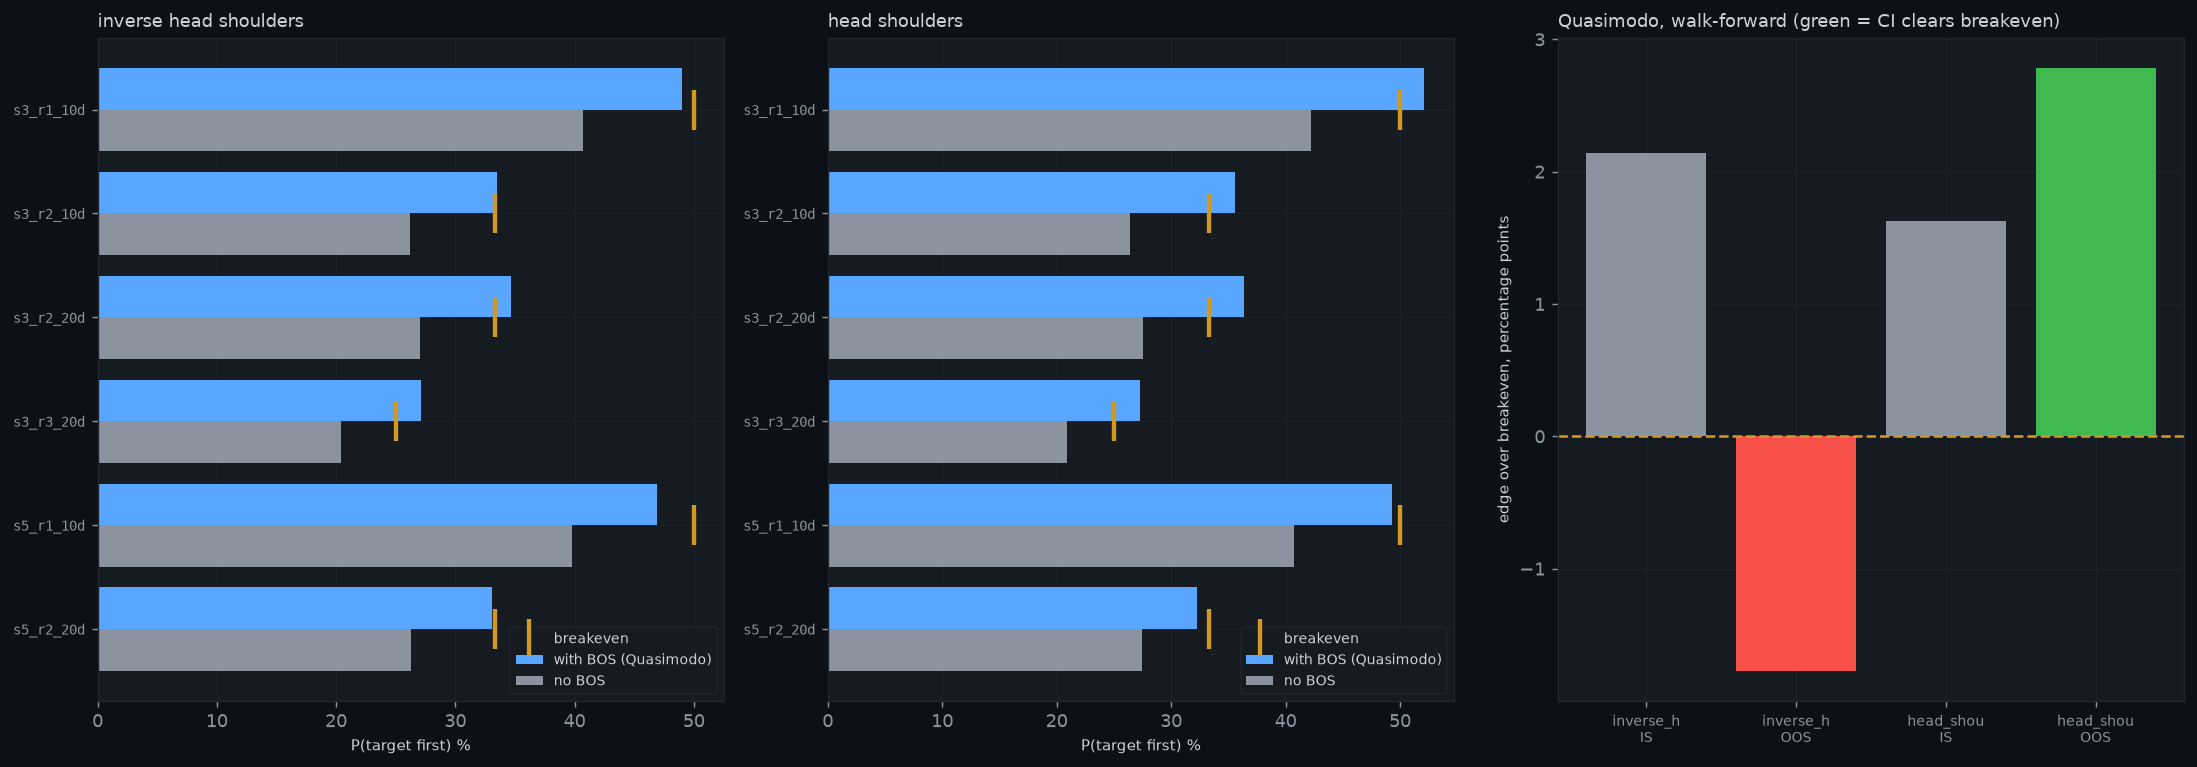
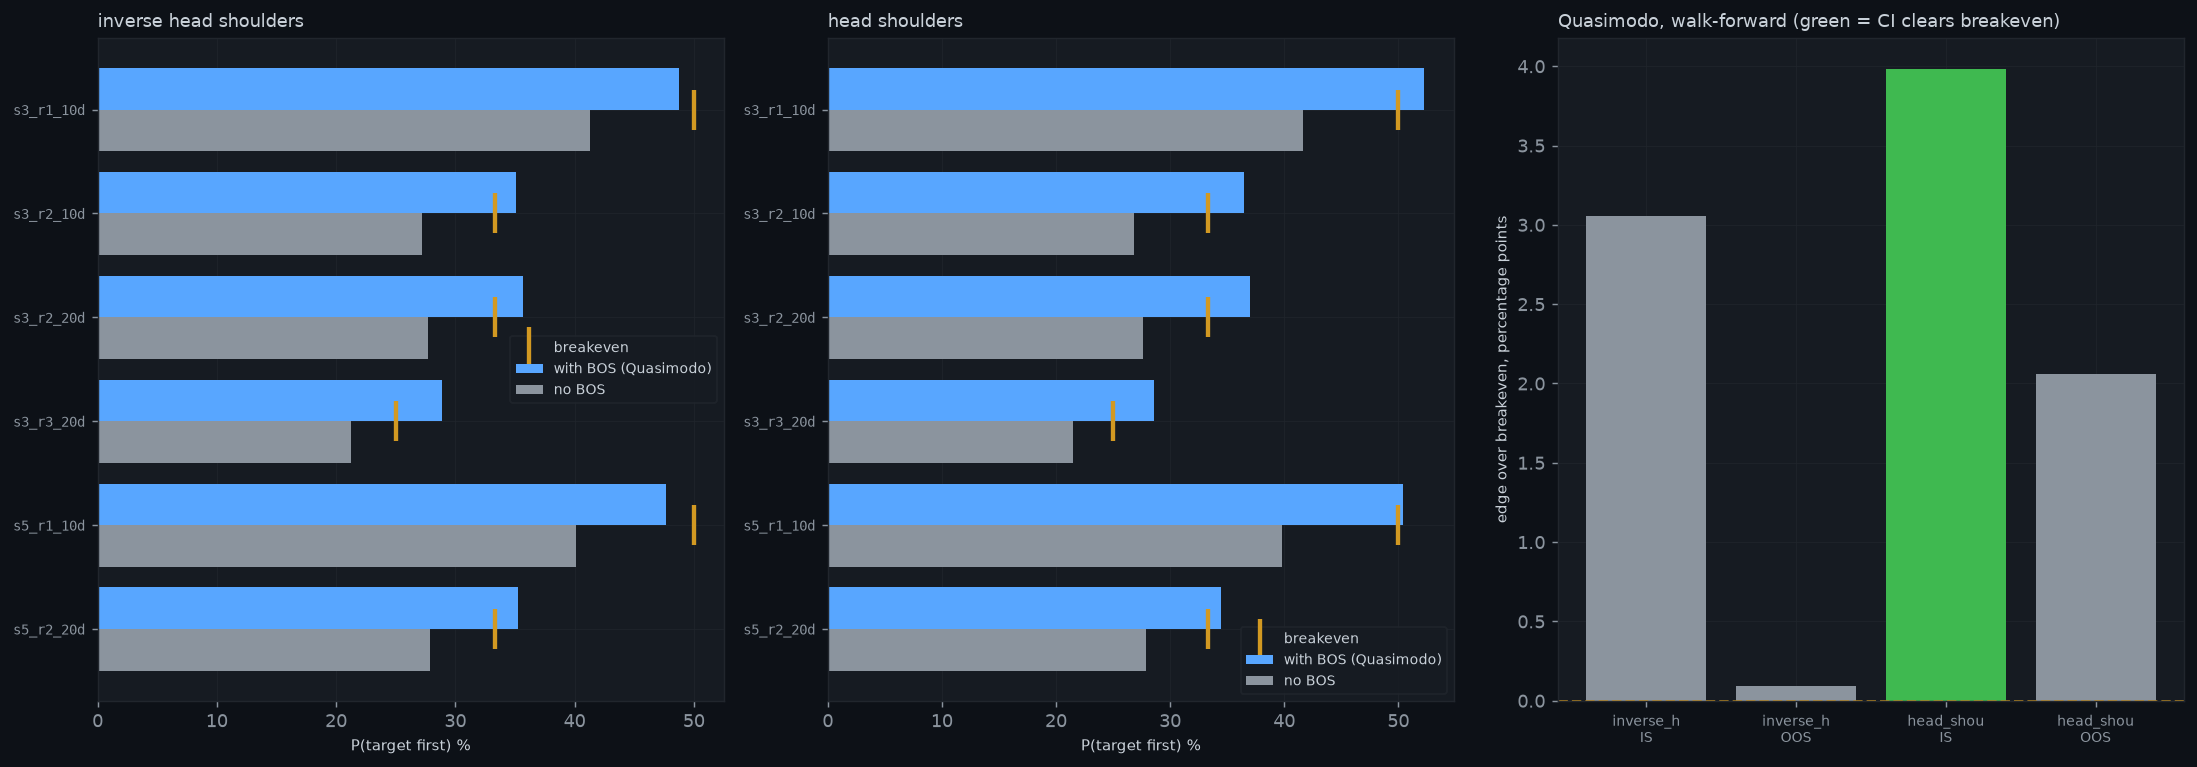
docs(research): H&S/Quasimodo verdict over 51,538 structures
Full sweep complete: 9 assets, 4 timeframes, 1,429,944 bars, 2017-2026.

The raw pattern is empty. Forward returns after a confirmed head-and-shoulders
are negative in both directions at every timeframe and horizon, and the
bullish/bearish symmetry test finds no difference on three of four barrier
cells. Both directions failing equally rules out the sample's drift as the
explanation, which makes this a cleaner result than a one-sided failure.

Two filters carry real information. A break of structure — the Quasimodo
qualifier — adds 7 to 10 percentage points, holding on every asset
individually, with the no-BOS population losing 0.17-0.18R throughout. A
volume-confirmed neckline break adds 10 to 16 points with every interval far
clear of zero. The widely-quoted 73%-vs-54% claim implies ~19 points; this
measures 10-16 on a much larger sample. Same direction, firmly established.

Neither filter clears breakeven out-of-sample. The best case, bearish
Quasimodo, reaches +0.09R with an interval that still contains breakeven. A
lead, not a strategy.

The finding that applies to the live position: a bullish inverse head and
shoulders under unmitigated overhead supply performs 8 percentage points worse,
interval entirely below zero on 21,070 events, while the bearish mirror is
correspondingly better. The directional logic is coherent, which is what makes
it credible. The triple-tap study saw the same effect grazing zero; at this
sample size it is decisive.
[…]

diff --git a/research/hs_quasimodo/REPORT.md b/research/hs_quasimodo/REPORT.md
@@ -1,0 +1,178 @@
+# Head & shoulders / Quasimodo — verdict
+
+**Date:** 2026-07-28 · **Sample:** 51,538 detected structures · 9 assets · 4 timeframes ·
+1,429,944 bars · 2017-07 to 2026-07-25
+
+## The short version
+
+Three findings, in descending order of how well established they are.
+
+1. **The raw pattern is worthless.** Forward returns after a confirmed head-and-shoulders are
+   *negative* in both directions, at every timeframe, at every horizon. Structures without a break
+   of structure lose 0.13–0.18R per trade, consistently, on every asset.
+2. **Two filters carry large, robustly-measured information.** A **break of structure** (the
+   Quasimodo qualifier) adds 7–10 percentage points. A **volume-confirmed neckline break** adds
+   10–16 points. Both with intervals far clear of zero on tens of thousands of events. These are the
+   real findings of this study.
+3. **Neither filter clearly clears breakeven out-of-sample.** The best case — bearish Quasimodo —
+   reaches +0.09R OOS with a confidence interval that still contains breakeven. Suggestive, not
+   established.
+
+For the live XRP long specifically, the answer is unchanged and slightly worse than before: the
+structure is a genuine inverse head and shoulders, it carries **no break of structure**, and it sits
+**under overhead supply** — the two conditions that this study finds most damaging.
+
+## The pattern itself carries no directional information
+
+Forward returns, signed so positive always means the pattern's own direction worked:
+
+| population | n | 5d | 10d | 20d | 30d | 60d |
+|---|---|---|---|---|---|---|
+| inverse H&S 1h | 11,577 | −1.46% | −1.72% | −2.20% | −0.59% | +1.70% |
+| inverse H&S 4h | 3,656 | −0.77% | −1.79% | −2.36% | −2.86% | −2.08% |
+| inverse H&S 1d | 623 | +0.06% | +0.35% | −4.13% | −1.60% | −1.45% |
+| H&S 1h | 11,259 | −1.34% | −1.27% | −1.31% | −1.34% | −1.88% |
+| H&S 4h | 3,675 | −1.23% | −1.96% | −2.33% | −1.89% | −2.94% |
+| H&S 1d | 579 | −0.03% | −1.22% | −2.75% | −5.34% | −11.27% |
+
+Negative essentially everywhere, in **both** directions. That symmetry matters: a bullish-only or
+bearish-only failure would suggest the sample's drift was driving it. Both directions failing
+equally means the pattern itself is empty, which is a cleaner and more general result.
+
+The **symmetry test** confirms it directly — bullish vs bearish differ by −0.25% to +0.08% with
+intervals containing zero on three of four barrier cells.
+
+## But the break-of-structure filter is real
+
+Pooled over all nine assets, at a 3% stop and 2R over 10 days (breakeven 33.33%):
+
+| population | n | rate | EV | vs breakeven |
+|---|---|---|---|---|
+| inverse H&S **with** BOS | 10,338 | 35.05% | +0.06R | CI contains |
+| inverse H&S **without** BOS | 15,656 | 27.18% | **−0.17R** | clearly below |
+| H&S **with** BOS | 9,857 | 36.45% | +0.11R | **clears** |
+| H&S **without** BOS | 15,683 | 26.85% | **−0.18R** | clearly below |
+
+The gap is +7.9 and +9.6 points. It holds on **every asset individually** — XRP, BTC, ETH and SOL
+all show the same 7–10 point separation, with the no-BOS population always losing money. This is the
+most consistent effect in the study.
+
+So the Quasimodo distinction, which reads like jargon, is doing measurable work: it separates
+structures that follow through from structures that don't.
+
+## And volume confirmation is the strongest single filter
+
+Volume-confirmed neckline breaks (break-bar volume ≥ 1.5× the trailing 20-bar mean) versus
+unconfirmed, difference in target-first rate with Newcombe intervals:
+
+| variant | cell | confirmed n | unconfirmed n | difference |
+|---|---|---|---|---|
+| inverse H&S | 3%/1R/10d | 10,226 | 7,562 | **+9.71%** [+8.23, +11.18] |
+| inverse H&S | 3%/2R/10d | 10,226 | 7,562 | **+10.53%** [+9.09, +11.95] |
+| inverse H&S | 3%/2R/20d | 10,226 | 7,562 | **+11.17%** [+9.72, +12.60] |
+| H&S | 3%/1R/10d | 9,943 | 5,732 | **+15.97%** [+14.36, +17.57] |
+| H&S | 3%/2R/10d | 9,943 | 5,732 | **+13.96%** [+12.39, +15.51] |
+| H&S | 3%/2R/20d | 9,943 | 5,732 | **+14.02%** [+12.45, +15.58] |
+
+Every interval is far clear of zero. The widely-quoted "73% vs 54%" claim implies a ~19-point gap;
+this measures 10–16 points on a far larger and more diverse sample. Different magnitude, same
+direction, and firmly established. **This is the one piece of head-and-shoulders folklore that
+survives contact with the data.**
+
+## Out-of-sample, it still does not clear breakeven
+
+The confirmatory test — the pre-registered specification run on 2023–26 only:
+
+| population | window | n | rate | breakeven | EV |
+|---|---|---|---|---|---|
+| inverse H&S + BOS | in-sample | 5,650 | 36.39% | 33.33% | +0.10R |
+| inverse H&S + BOS | **out-of-sample** | 4,688 | 33.43% | 33.33% | **+0.02R** |
+| H&S + BOS | in-sample | 5,427 | 37.31% | 33.33% | +0.13R |
+| H&S + BOS | **out-of-sample** | 4,430 | 35.40% | 33.33% | **+0.09R** |
+
+The in-sample bearish result clears breakeven; out-of-sample it does not — the interval
+[32.9%, 38.0%] still contains 33.33%. Bullish decays to almost exactly breakeven.
+
+The honest reading: **the filters identify a real distinction, but the surviving edge is too small
+to be established as tradeable on this sample.** +0.09R with an interval spanning breakeven is a
+lead worth pursuing, not a strategy.
+
+## The finding that applies directly to the live position
+
+Structures sitting under unmitigated bearish order blocks, versus in clear air:
+
+| variant | cell | under supply | clear air | difference |
+|---|---|---|---|---|
+| **inverse H&S** | 3%/1R/10d | n=21,070 | n=4,924 | **−7.90%** [−9.44, −6.35] |
+| **inverse H&S** | 3%/2R/10d | n=21,070 | n=4,924 | **−8.61%** [−10.10, −7.13] |
+| **inverse H&S** | 3%/2R/20d | n=21,070 | n=4,924 | **−8.01%** [−9.50, −6.53] |
+| H&S | 3%/2R/10d | n=22,175 | n=3,365 | +2.47% [+0.81, +4.09] |
+
+A bullish inverse head and shoulders under overhead supply performs **8 percentage points worse**,
+with the interval entirely below zero on 21,070 events. The bearish mirror is correspondingly
+*better* under supply — the directional logic is coherent, which is what makes the result credible
+rather than an artefact.
+
+The triple-tap study found the same effect at −6.78% with an interval grazing zero. At this sample
+size it is no longer marginal.
+
+## The live XRP position
+
+The daily detector finds the marked base and it **is** an inverse head and shoulders — the original
+triple-tap framing was wrong:
+
+- left shoulder **1.0490** (6 Jun) · head **1.0081** (26 Jun) · right shoulder **1.0526** (13 Jul)
+- shoulder asymmetry 0.08 (near-symmetric) · head depth 4.06% · confirmed 2026-07-18
+- neckline 1.2930 → 1.1838, sloping −8.45%
+- **no break of structure** → a plain inverse H&S, not a Quasimodo
+
+Which places it in the worst cell this study identifies: **no BOS** (−0.17R population) and **under
+overhead supply** (−8 points).
+
+The measured move puts the target at **1.1756**, not 1.3000:
+
+| | as held | pattern's own geometry |
+|---|---|---|
+| target | 1.3000 | **1.1756** (−10.6%) |
+| R:R | 4.23:1 | **2.07:1** |
+| breakeven | 19.14% | **32.62%** |
+
+At the pattern's canonical conventions it is worse still — entry at confirmation (1.0922) with a
+stop below the head (1.0081) gives R:R 0.99 and a 50.2% breakeven. Position sizing at the 44 USDT
+cap against the pattern's own stop is **523 XRP**; the held position is **115×** that.
+
+## Limitations — read before acting
+
+- **The measured-move table is not trustworthy as stated.** Each event carries its own R:R, so a
+  pooled win rate has no single breakeven. That table uses the *median* R:R as a proxy, which is not
+  a sound aggregation — the planned `aggregate_variable_r()` was not implemented. Treat the
+  `confirm × right_shoulder` figure of +0.55R as unverified; it almost certainly reflects a very
+  tight stop with a rare, large payoff, which is the same high-R:R trap the triple-tap study
+  documented. Everything in the fixed-R barrier grid is unaffected.
+- **Overlap is severe.** Nominal n runs to tens of thousands but effective n is 700–1,400 after
+  correcting for forward windows that overlap 7–23×. Every interval quoted here is computed at the
+  effective size; the nominal counts are not the basis for any claim.
+- **Multiplicity.** Many cells were examined. The BOS and volume findings are large and consistent
+  across all nine assets and both directions, which is what distinguishes them from the isolated
+  cells that clear breakeven. The out-of-sample result is the only confirmatory test, and it does
+  not clear.
+- **Provenance.** Every market-data API is egress-blocked in this environment; all series come from
+  third-party GitHub mirrors, each SHA-256 pinned in `config.py`. Data ends 2026-07-25, three days
+  before this was written.
+- **Sample composition.** 15m and 1h dominate the event count (42,000 of 51,538). Daily events are
+  only 1,202, so the timeframe most traders actually use is the least well-measured here.
+
+## Datasets
+
+`data/hs/` — `events.parquet` (51,538 × 88), `panel/` (1,429,944 bar rows with pattern-state
+labels), `paths/` (240 forward bars per event), and `DATA_DICTIONARY.md`. Export asserts across the
+whole table that no entry index precedes its confirmation bar.
+
+## Reproducing
+
+```bash
+python -m research.hs_quasimodo.detect      # sharded, resumable
+python -m research.hs_quasimodo.export --all
+python -m research.hs_quasimodo.study
+python -m research.hs_quasimodo.current     # classify the live structure
+```
